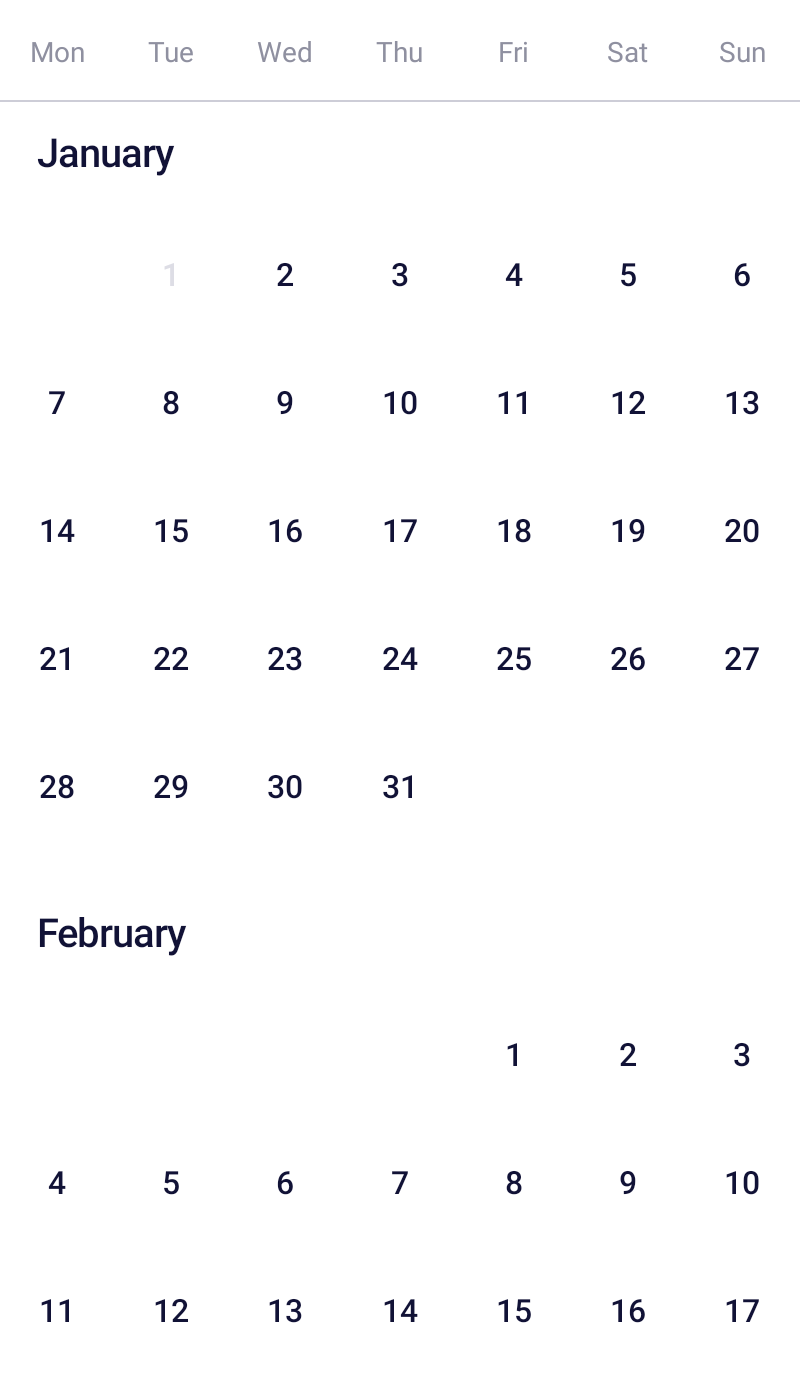
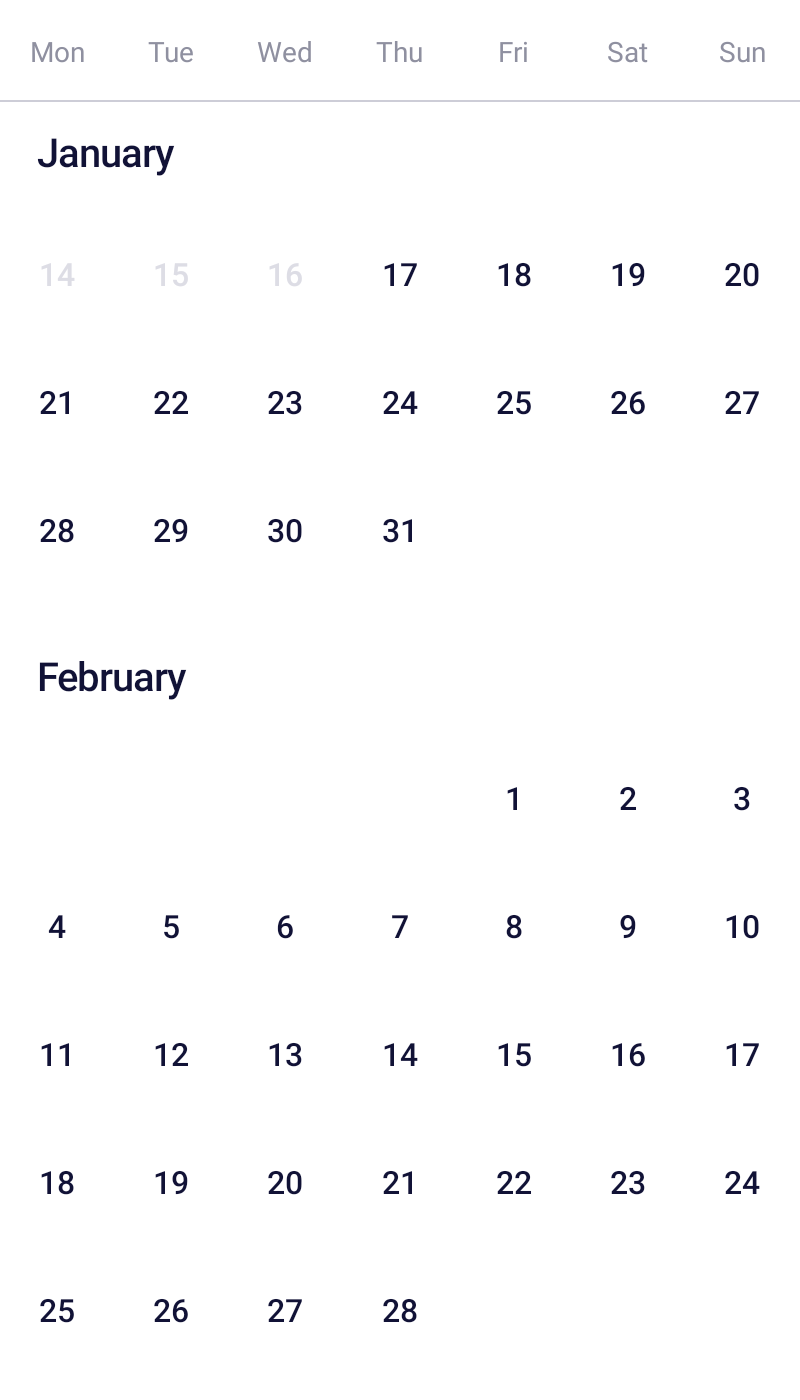
Added spacers to top and bottom of range to cover the months.

diff --git a/Backpack/src/main/java/net/skyscanner/backpack/calendar2/data/CalendarCells.kt b/Backpack/src/main/java/net/skyscanner/backpack/calendar2/data/CalendarCells.kt
@@ -20,6 +20,8 @@ package net.skyscanner.backpack.calendar2.data
 
 import net.skyscanner.backpack.calendar2.CalendarParams
 import net.skyscanner.backpack.calendar2.CalendarSelection
+import net.skyscanner.backpack.calendar2.extension.firstDay
+import net.skyscanner.backpack.calendar2.extension.lastDay
 import net.skyscanner.backpack.calendar2.extension.toIterable
 import net.skyscanner.backpack.calendar2.extension.yearMonth
 import org.threeten.bp.LocalDate
@@ -65,6 +67,7 @@ internal fun CalendarCells(
   val months = params
     .range
     .toIterable()
+    .let { daysBeforeRangeStarts(params) + it + daysAfterRangeEnds(params) }
     .groupBy { date -> date.yearMonth() }
     .toSortedMap()
     .map { entry ->
@@ -86,4 +89,26 @@ internal fun CalendarCells(
     }
 
   return CalendarCells(months = months)
+}
+
+private fun daysBeforeRangeStarts(params: CalendarParams): List<LocalDate> {
+  val result = mutableListOf<LocalDate>()
+  val firstDay = params.range.start.yearMonth().firstDay()
+  var current = params.range.start
+  while (current != firstDay) {
+    current = current.plusDays(-1)
+    result += current
+  }
+  return result
+}
+
+private fun daysAfterRangeEnds(params: CalendarParams): List<LocalDate> {
+  val result = mutableListOf<LocalDate>()
+  val lastDay = params.range.endInclusive.yearMonth().lastDay()
+  var current = params.range.endInclusive
+  while (current != lastDay) {
+    current = current.plusDays(1)
+    result += current
+  }
+  return result
 }

diff --git a/Backpack/src/main/java/net/skyscanner/backpack/calendar2/list/CalendarCellDayHolder.kt b/Backpack/src/main/java/net/skyscanner/backpack/calendar2/list/CalendarCellDayHolder.kt
@@ -56,7 +56,7 @@ internal class CalendarCellDayHolder(
   }
 
   override fun bind(model: CalendarCell.Day) {
-    view.isEnabled = !model.info.disabled
+    view.isEnabled = !model.info.disabled && !model.outOfRange
     view.isSelected = model.selection != null
     view.contentDescription = model.contentDescription + " " + (model.info.label ?: "")
 
@@ -68,7 +68,7 @@ internal class CalendarCellDayHolder(
         day.setTextColor(selectionContentColor(model.selection))
         day.background = selectionBackground(model.selection)
       }
-      model.info.disabled -> {
+      model.info.disabled || model.outOfRange -> {
         day.setTextColor(disabledTextColor)
         day.background = null
       }
@@ -83,7 +83,7 @@ internal class CalendarCellDayHolder(
     }
 
     when {
-      model.info.disabled -> {
+      model.info.disabled || model.outOfRange -> {
         label.isVisible = false
       }
       model.info.style == CellStatusStyle.Label -> {

diff --git a/Backpack/src/main/java/net/skyscanner/backpack/calendar2/data/CalendarCell.kt b/Backpack/src/main/java/net/skyscanner/backpack/calendar2/data/CalendarCell.kt
@@ -44,6 +44,7 @@ internal sealed class CalendarCell {
     val info: CellInfo,
     val selection: Selection?,
     val contentDescription: String,
+    val outOfRange: Boolean,
     override val yearMonth: YearMonth,
   ) : CalendarCell()
 
@@ -65,6 +66,7 @@ internal fun CalendarCellDay(
   date = date,
   yearMonth = yearMonth,
   info = params.cellsInfo[date] ?: CellInfo.Default,
+  outOfRange = date !in params.range,
   contentDescription = "${date.dayOfMonth} ${date.month.getDisplayName(params.dateAccessibilityText, params.locale)}",
   selection = when (selection) {
     is CalendarSelection.None -> null

diff --git a/Backpack/src/main/java/net/skyscanner/backpack/calendar2/data/CalendarStateMachine.kt b/Backpack/src/main/java/net/skyscanner/backpack/calendar2/data/CalendarStateMachine.kt
@@ -74,6 +74,7 @@ internal fun CalendarStateMachine(
 
 internal fun CalendarState.dispatchClick(date: CalendarCell.Day): CalendarState {
   if (date.info.disabled) return this
+  if (date.outOfRange) return this
 
   val selection = when (params.selectionMode) {
     CalendarParams.SelectionMode.Disabled -> selection

diff --git a/Backpack/src/main/java/net/skyscanner/backpack/calendar2/extension/YearMonth.kt b/Backpack/src/main/java/net/skyscanner/backpack/calendar2/extension/YearMonth.kt
@@ -25,7 +25,7 @@ internal fun YearMonth.firstDay(): LocalDate =
   atDay(1)
 
 internal fun YearMonth.lastDay(): LocalDate =
-  atDay(lengthOfMonth())
+  atEndOfMonth()
 
 internal fun YearMonth.prevMonth(): YearMonth =
   minusMonths(1)
